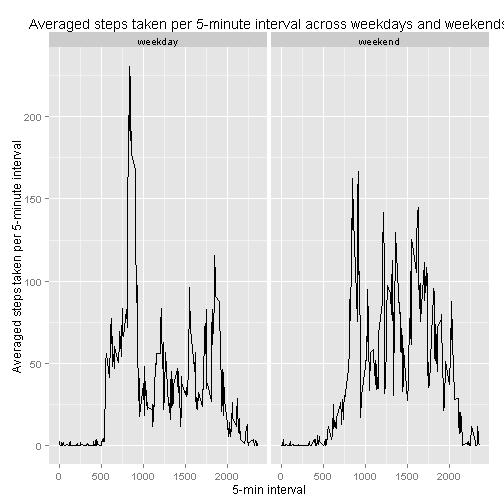
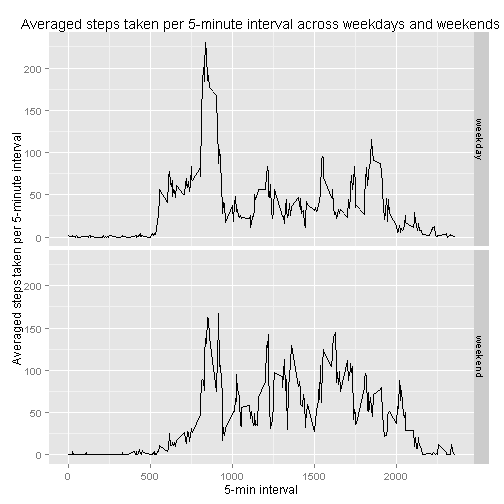
+repaire

diff --git a/PA1_template.html b/PA1_template.html
@@ -320,14 +320,14 @@ x &lt;- rep(as.numeric(rownames(steps)), times = 2)
 steps &lt;- data.frame(x, steps_min, type_day)
 
 
-p &lt;- qplot(x, steps_min, data = steps, geom = &quot;line&quot;, facets = .~type_day, 
+p &lt;- qplot(x, steps_min, data = steps, geom = &quot;line&quot;, facets = type_day ~., 
           xlab = &quot;5-min interval&quot;, 
           ylab = &quot;Averaged steps taken per 5-minute interval&quot;, 
           main = &quot;Averaged steps taken per 5-minute interval across weekdays and weekends&quot;)
 print(p)
 </code></pre>
 
[2 lines of base64/hex data omitted]
 
 </body>
 

diff --git a/PA1_template.md b/PA1_template.md
@@ -138,7 +138,7 @@ x <- rep(as.numeric(rownames(steps)), times = 2)
 steps <- data.frame(x, steps_min, type_day)
 
 
-p <- qplot(x, steps_min, data = steps, geom = "line", facets = .~type_day, 
+p <- qplot(x, steps_min, data = steps, geom = "line", facets = type_day ~., 
           xlab = "5-min interval", 
           ylab = "Averaged steps taken per 5-minute interval", 
           main = "Averaged steps taken per 5-minute interval across weekdays and weekends")
